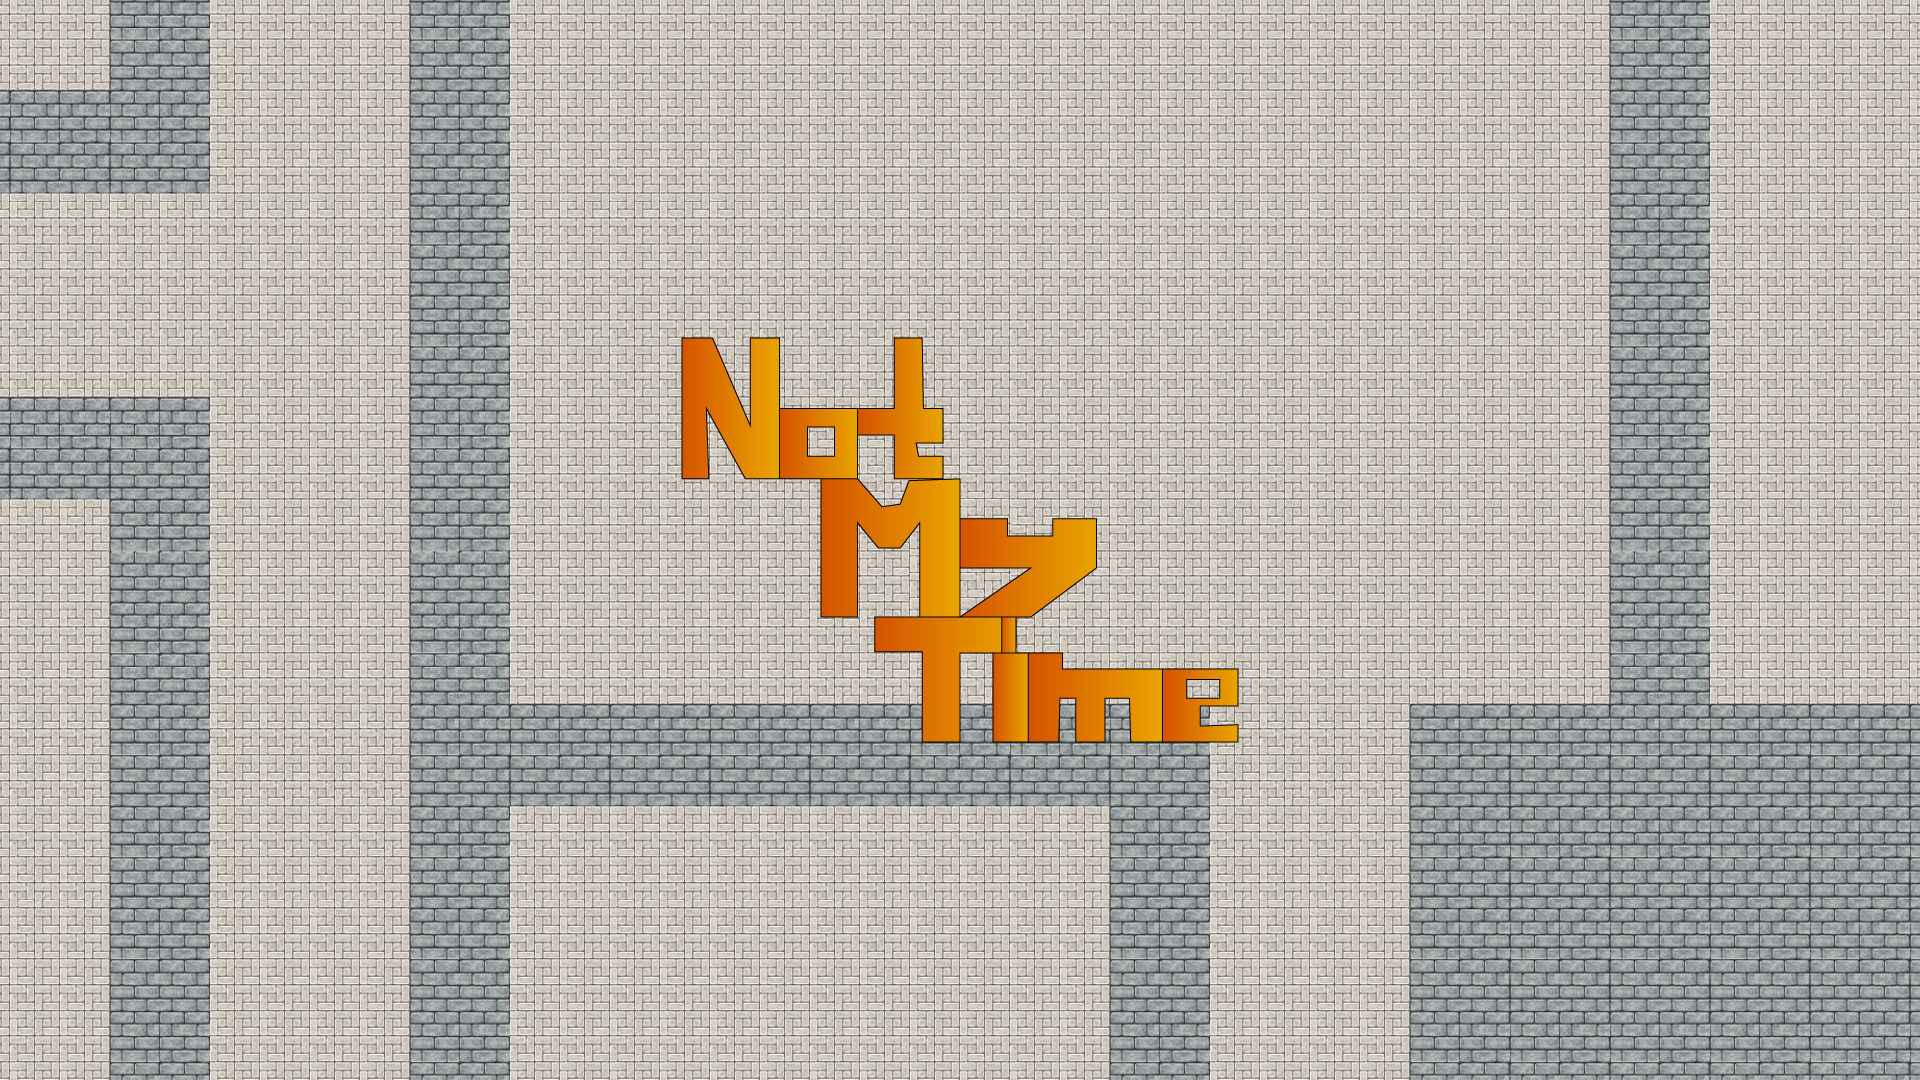
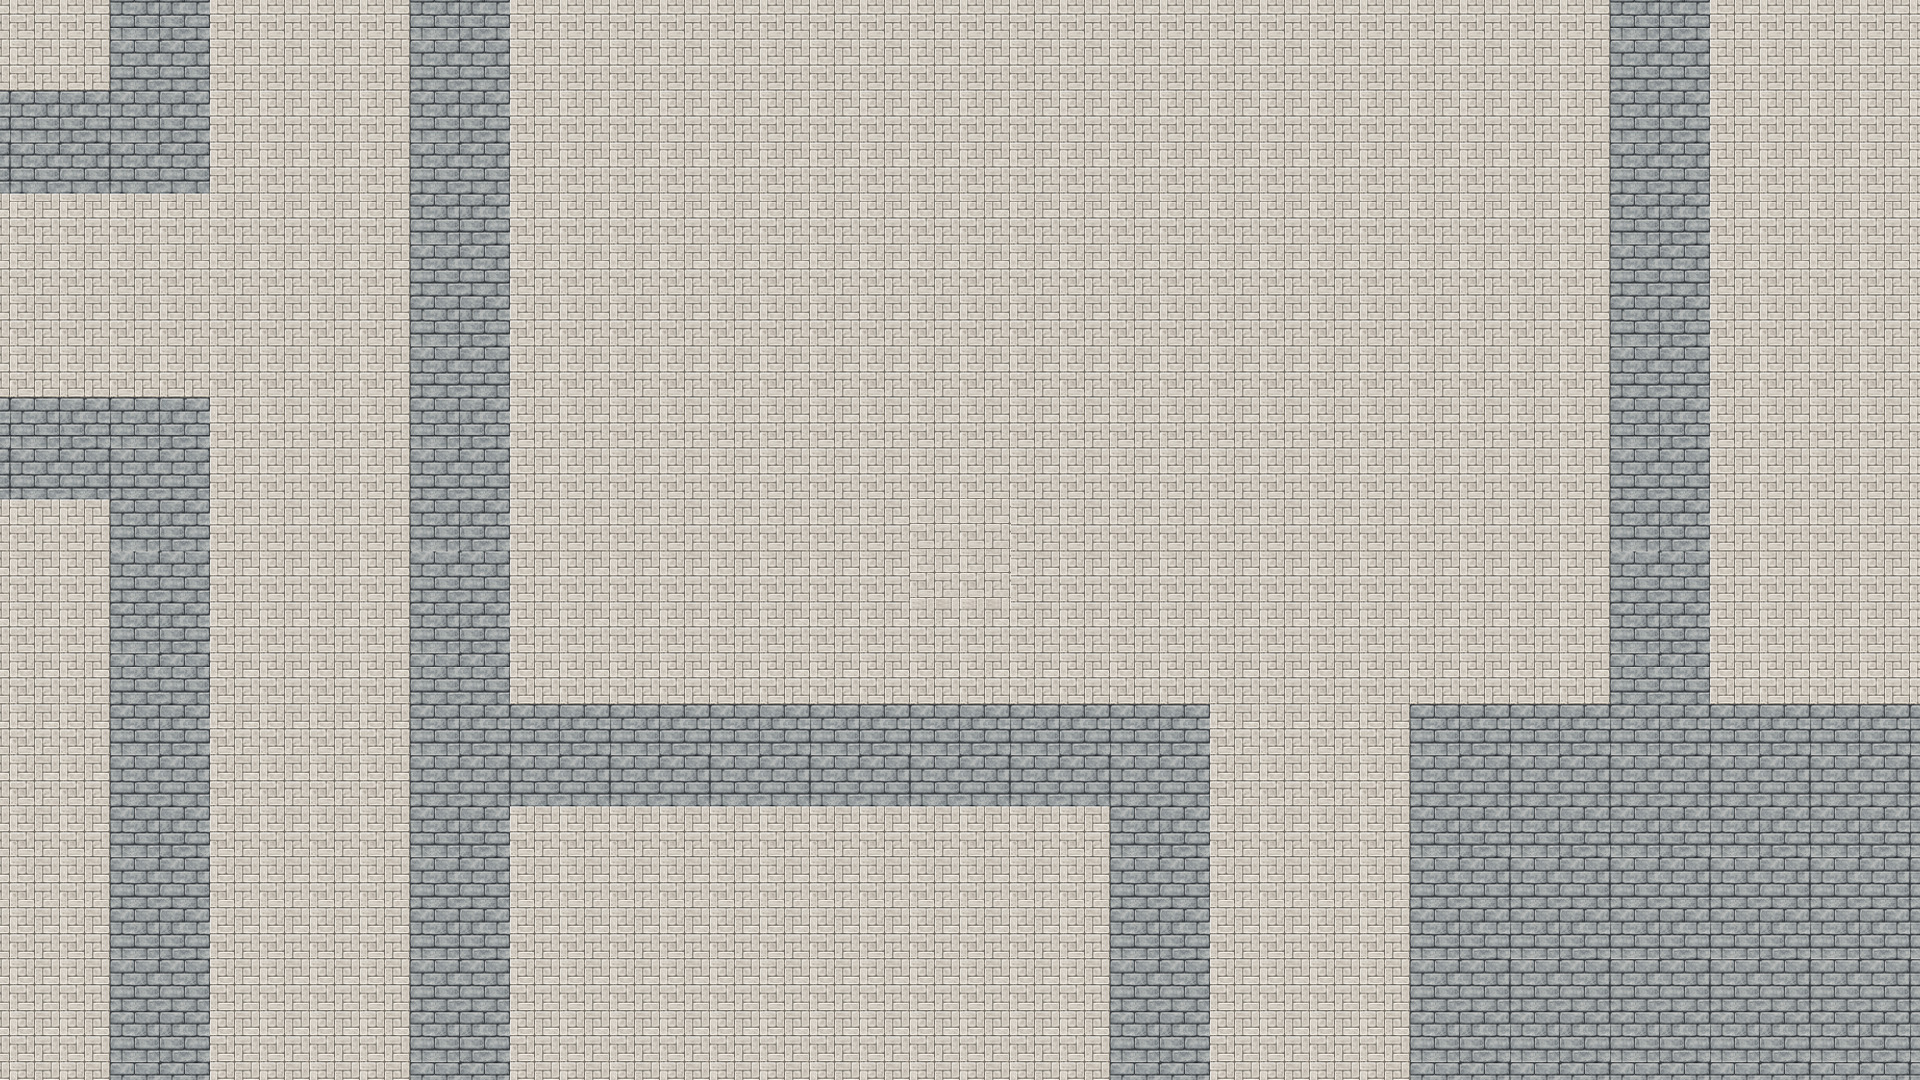
MenuUpdate

Changed region(s): [[0.3438, 0.3056, 0.6562, 0.7028]]

diff --git a/NotMyTime/GameStateManagementSample/Screens/SystemScreens/BackgroundScreen.cs b/NotMyTime/GameStateManagementSample/Screens/SystemScreens/BackgroundScreen.cs
@@ -31,6 +31,11 @@ namespace GameStateManagement
 
         private ContentManager content;
         private Texture2D backgroundTexture;
+        private Texture2D backgroundText;
+
+        float mScaleValue = 1;
+        float mScaleIncrement = 0.005f;
+        double mScaleDelay = 0.05;
 
         #endregion Fields
 
@@ -58,6 +63,7 @@ namespace GameStateManagement
                 content = new ContentManager(ScreenManager.Game.Services, "Content");
 
             backgroundTexture = content.Load<Texture2D>("background");
+            backgroundText = content.Load<Texture2D>("background_font");
         }
 
         /// <summary>
@@ -98,6 +104,30 @@ namespace GameStateManagement
 
             spriteBatch.Draw(backgroundTexture, fullscreen,
                              new Color(TransitionAlpha, TransitionAlpha, TransitionAlpha));
+
+            mScaleDelay -= gameTime.ElapsedGameTime.TotalSeconds;
+
+            //If the Fade delays has dropped below zero, then it is time to 
+            //fade in/fade out the image a little bit more.
+            if (mScaleDelay <= 0)
+            {
+                //Reset the Fade delay
+                mScaleDelay = 0.05;
+
+                //Increment/Decrement the fade value for the image
+                mScaleValue += mScaleIncrement;
+
+                //If the AlphaValue is equal or above the max Alpha value or
+                //has dropped below or equal to the min Alpha value, then 
+                //reverse the fade
+                if (mScaleValue >= 1.05f || mScaleValue <= 0.95f)
+                {
+                    mScaleIncrement *= -1;
+                }
+            }
+
+            spriteBatch.Draw(backgroundText, new Vector2(viewport.Width/2,viewport.Height/2 - 250), null, new Color(TransitionAlpha, TransitionAlpha, TransitionAlpha),
+                0f, new Vector2(backgroundText.Width / 2, backgroundText.Height / 2), mScaleValue, SpriteEffects.None, 0f);
 
             spriteBatch.End();
         }

diff --git a/NotMyTime/GameStateManagementSample/Screens/UnsereScreens/BattleScreen.cs b/NotMyTime/GameStateManagementSample/Screens/UnsereScreens/BattleScreen.cs
@@ -727,7 +727,7 @@ namespace GameStateManagement
                     EnemyStandinPosition = new Vector2(560, 560);
                     EnemyActualPosition = new Vector2(-40, 560);
                     break;
-                case "demon2":
+                case "demon":
                     enemy = new EnemyFighter("Demon", 1, 50, 50, 5, 5, 15, 5, 25);
                     EnemyStandinPosition = new Vector2(560, 560);
                     EnemyActualPosition = new Vector2(-40, 560);
@@ -773,7 +773,7 @@ namespace GameStateManagement
                 case "demon1":
                     enemy.Model = content.Load<Texture2D>("Battle/Enemy/demon1");
                     break;
-                case "demon2":
+                case "demon":
                     enemy.Model = content.Load<Texture2D>("Battle/Enemy/demon2");
                     break;
                 case "ddragon":
@@ -809,7 +809,7 @@ namespace GameStateManagement
                 case "demon1":
                     spriteBatch.Draw(enemy.Model, EnemyActualPosition, null, Color.White, 0f, new Vector2(), 1f, SpriteEffects.None, 0f);
                     break;
-                case "demon2":
+                case "demon":
                     spriteBatch.Draw(enemy.Model, EnemyActualPosition, null, Color.White, 0f, new Vector2(), 1f, SpriteEffects.None, 0f);
                     break;
                 case "ddragon":

diff --git a/NotMyTime/GameStateManagementSample/Screens/SystemScreens/MenuScreen.cs b/NotMyTime/GameStateManagementSample/Screens/SystemScreens/MenuScreen.cs
@@ -145,7 +145,7 @@ namespace GameStateManagement
             float transitionOffset = (float)Math.Pow(TransitionPosition, 2);
 
             // start at Y = 175; each X value is generated per entry
-            Vector2 position = new Vector2(0f, 175f);
+            Vector2 position = new Vector2(0f, 575f);
 
             // update each menu entry's location in turn
             for (int i = 0; i < menuEntries.Count; i++)
@@ -215,9 +215,10 @@ namespace GameStateManagement
             float transitionOffset = (float)Math.Pow(TransitionPosition, 2);
 
             // Draw the menu title centered on the screen
-            Vector2 titlePosition = new Vector2(graphics.Viewport.Width / 2, 80);
+            Vector2 titlePosition = new Vector2(graphics.Viewport.Width / 2, 500);
             Vector2 titleOrigin = font.MeasureString(menuTitle) / 2;
             Color titleColor = new Color(255, 255, 255) * TransitionAlpha;
+
             float titleScale = 1.25f;
 
             titlePosition.Y -= transitionOffset * 100;
